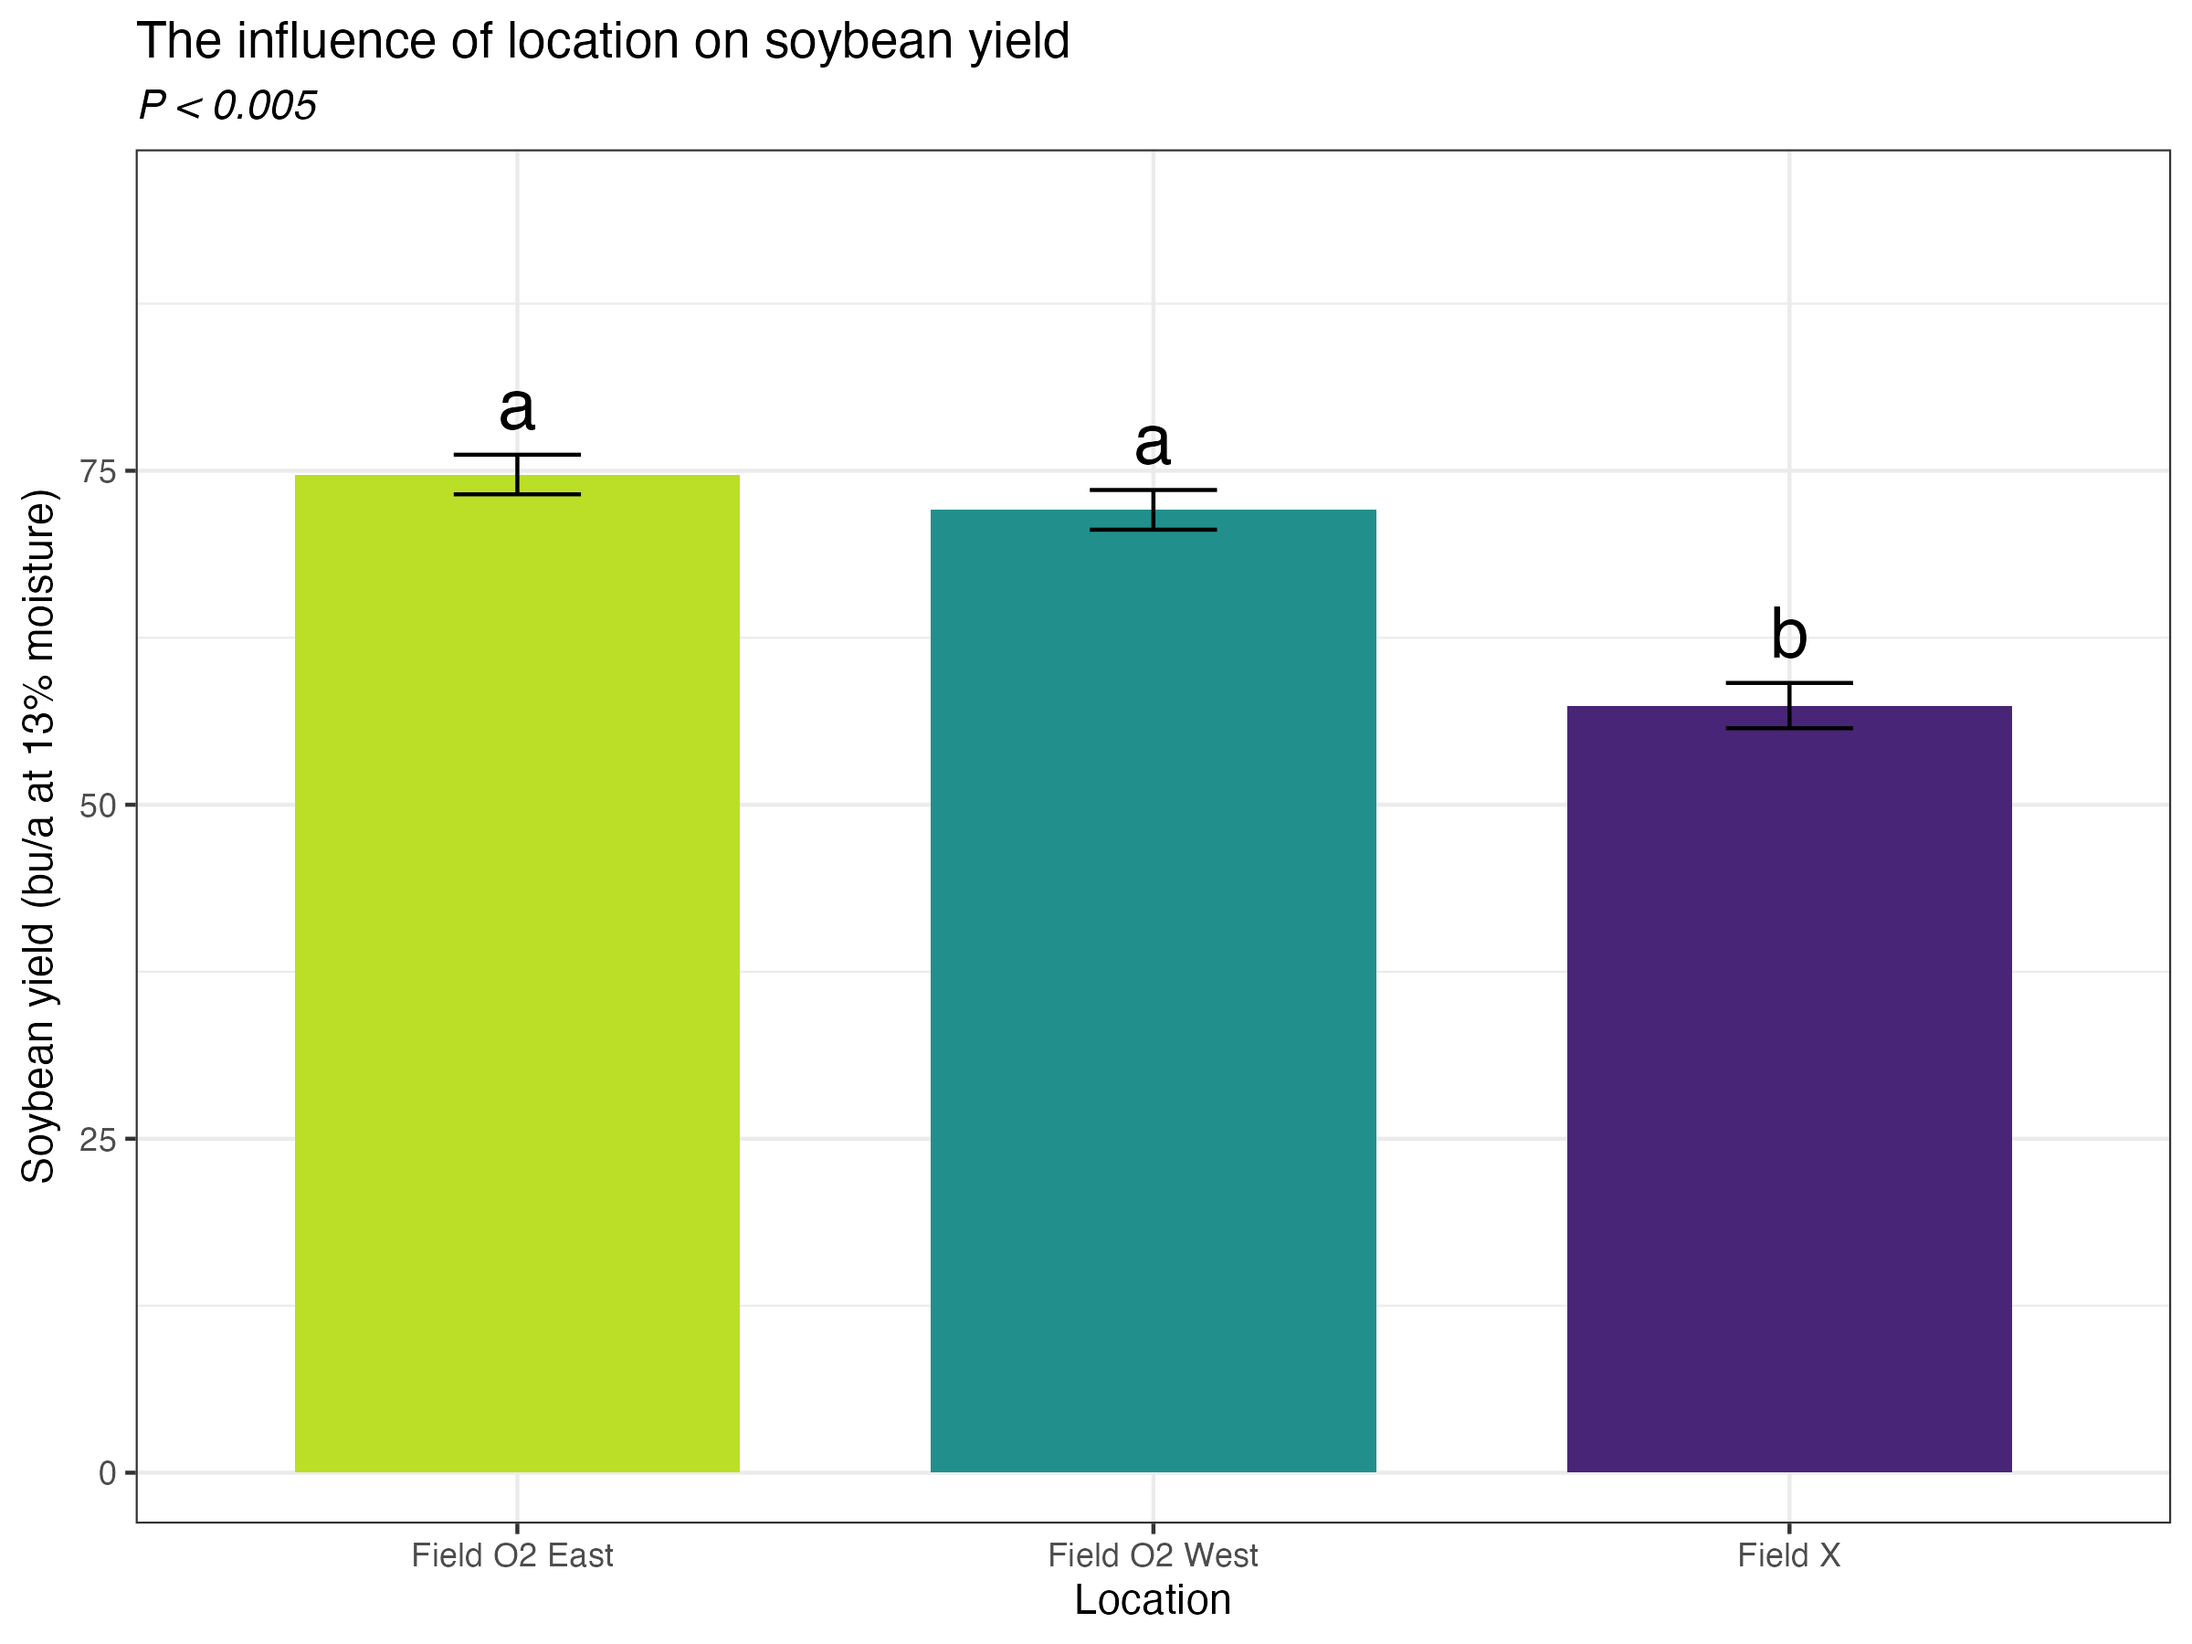
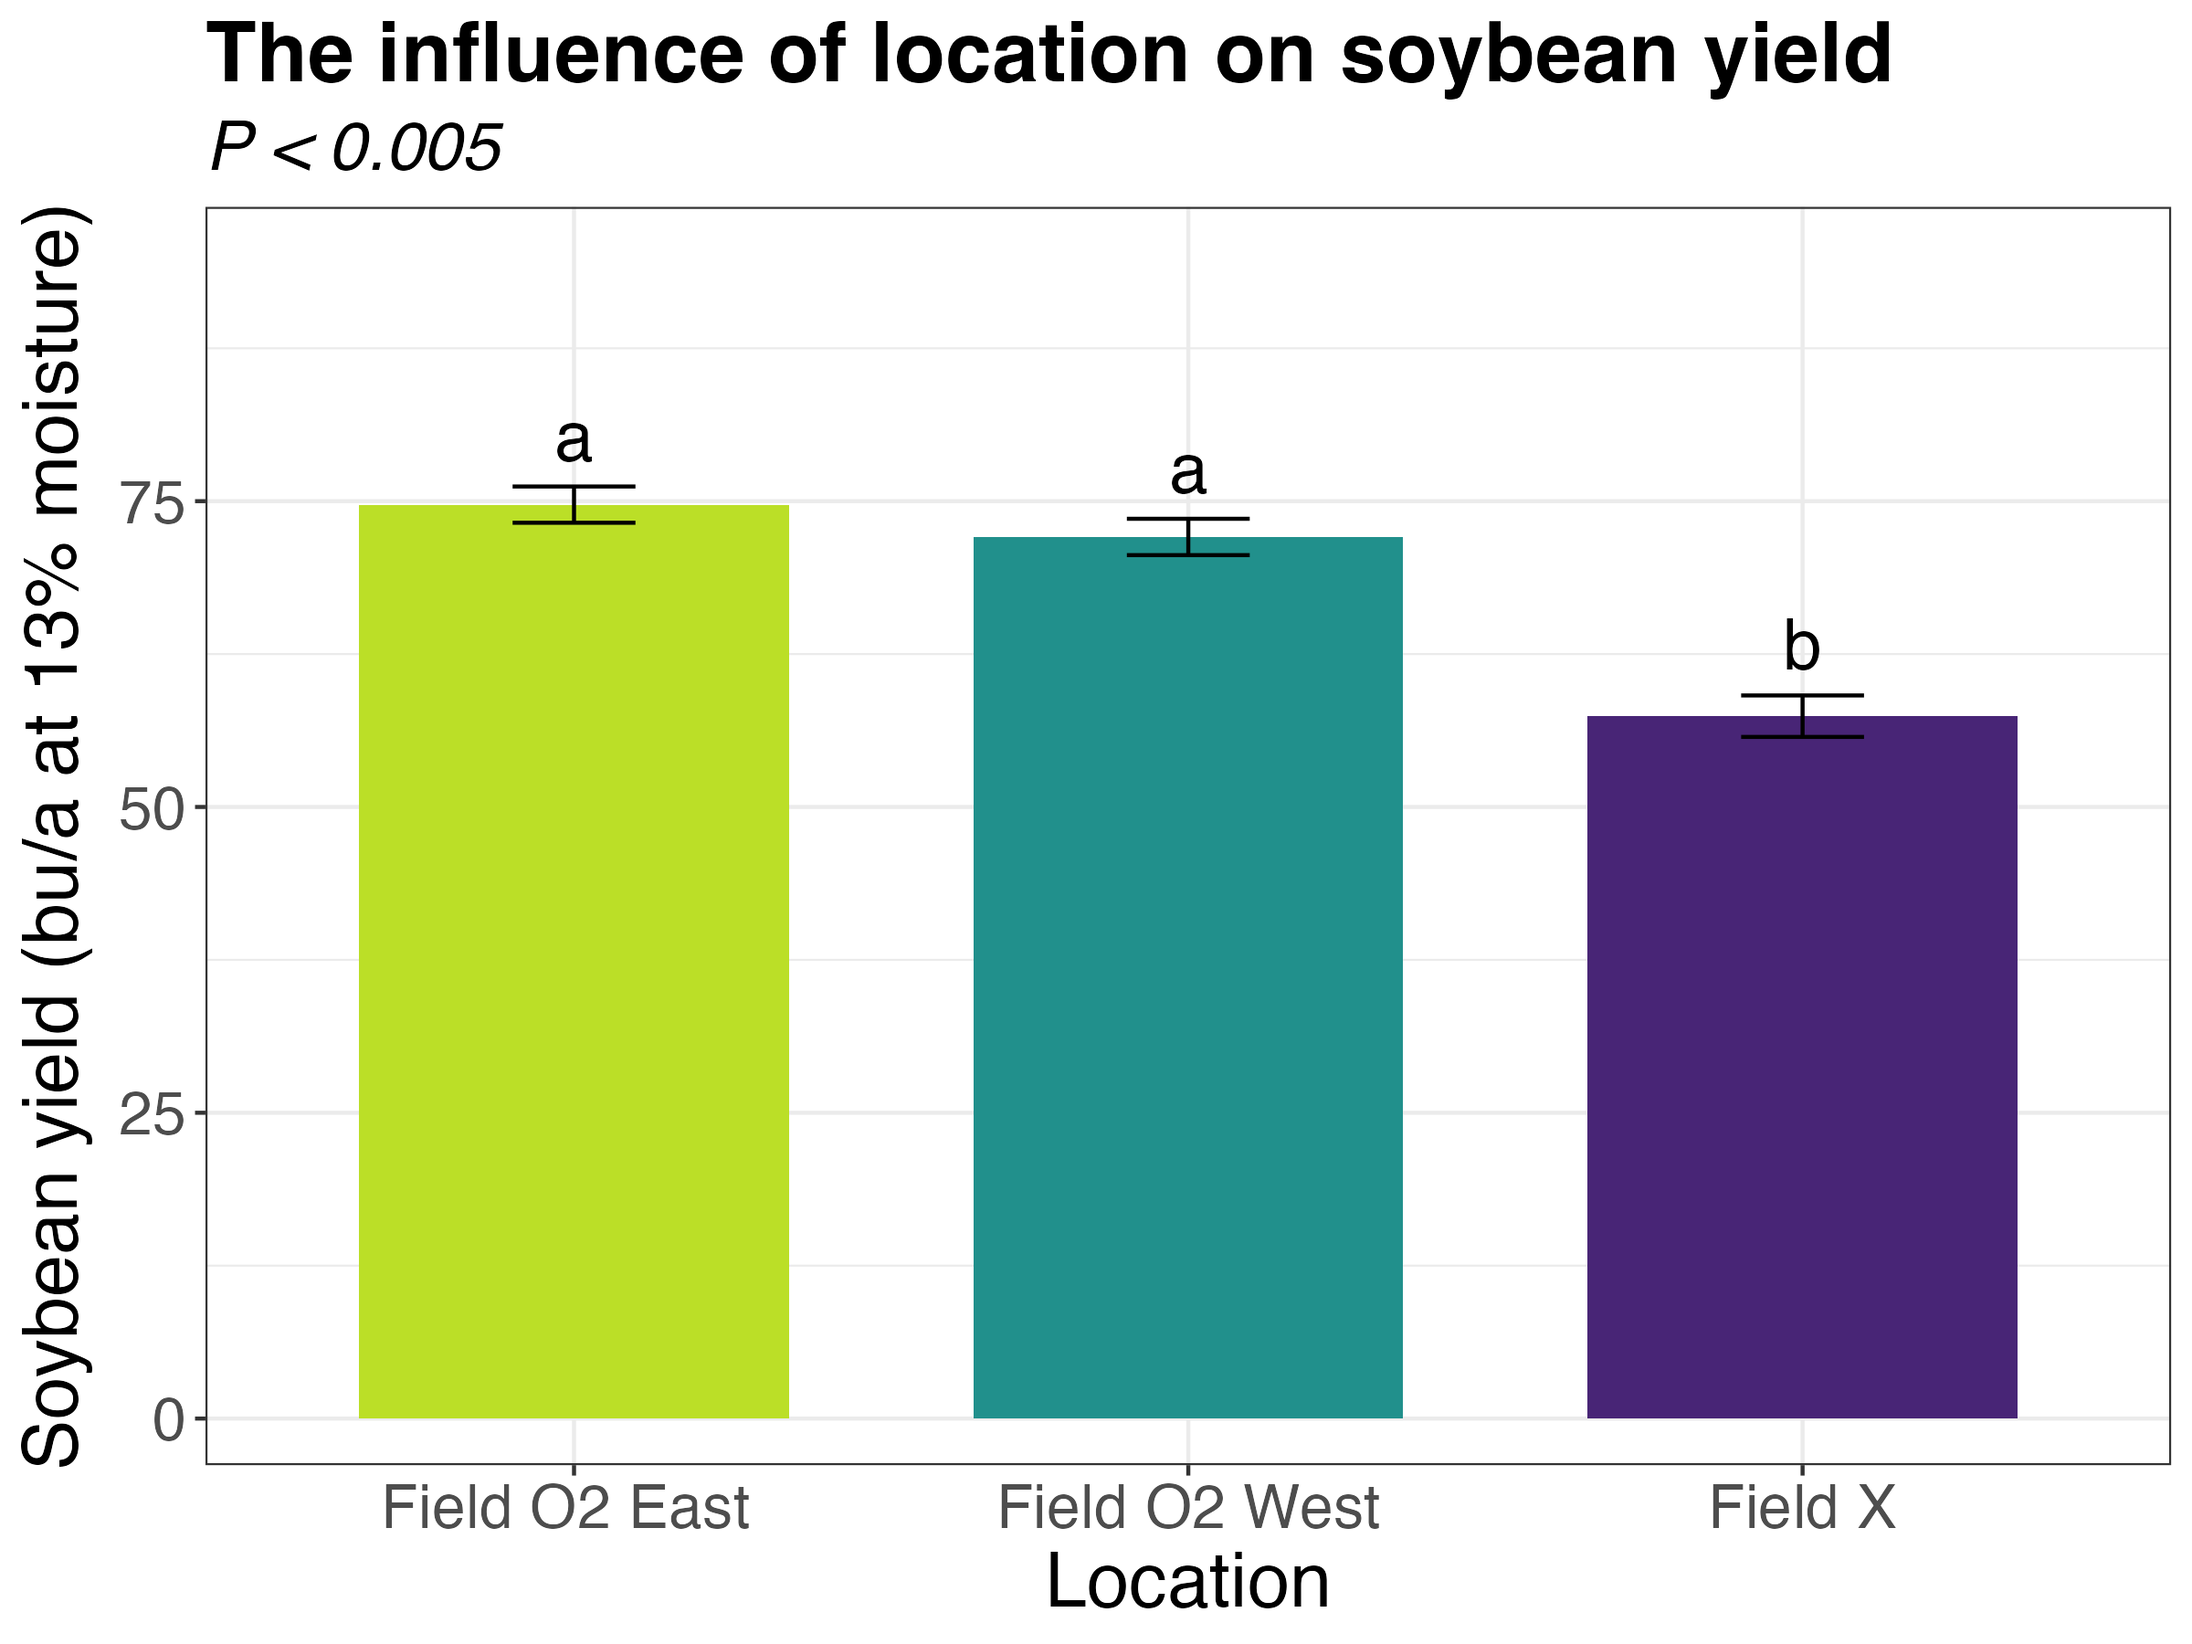
changed figures

diff --git a/rmarkdowns/bean_yield.md b/rmarkdowns/bean_yield.md
@@ -139,7 +139,7 @@ resid_panel(random)
 
 ## Means comparison
 
-### Weed-control (NS)
+### Weed-control (Not significant)
 
 ``` r
 means_weed_control <- emmeans(random, ~  weed_control)
@@ -156,7 +156,7 @@ kable(head(pairwise_comparisons_weed_control))
 | RIM - RNO |  1.6227217 | 2.819198 | 35.73048 |  0.5755969 | 0.9935448 |
 | RIM - TIC | -1.5348311 | 2.819198 | 35.73048 | -0.5444212 | 0.9952174 |
 
-<br> \### Location (S)
+<br> \### Location (Significant)
 
 ``` r
 means_location <- emmeans(random, ~  location)
@@ -174,7 +174,7 @@ kable(head(pairwise_comparisons_location))
 
 ## Tukey compact letter display
 
-### Weed-control (NS)
+### Weed-control (Not significant)
 
 ``` r
 cld_weed_control_tukey <-cld(emmeans(random, ~  weed_control, type = "response"), Letters = letters, sort = TRUE, reversed=TRUE)
@@ -204,7 +204,7 @@ cld_weed_control_tukey
 
 <br>
 
-### Location (S)
+### Location (Significant)
 
 ``` r
 cld_location_tukey <-cld(emmeans(random, ~  location, type = "response"), Letters = letters, sort = TRUE, reversed=TRUE)
@@ -232,53 +232,69 @@ cld_location_tukey
 
 <br>
 
-### Weed-control:Location (NS)
+## Fisher compact letter display
+
+### Weed-control (No significant)
 
 ``` r
-cld_weed_control_location_tukey <-cld(emmeans(random, ~  weed_control|location, type = "response"), Letters = letters, sort = TRUE, reversed=TRUE)
-cld_weed_control_location_tukey
+cld_weed_control_fisher <-cld(emmeans(random, ~  weed_control , type = "response"), Letters = letters, adjust = "none",sort = TRUE, reversed=TRUE)
 ```
 
-    ## location = field O2 east:
+    ## NOTE: Results may be misleading due to involvement in interactions
+
+``` r
+cld_weed_control_fisher
+```
+
     ##  weed_control emmean   SE   df lower.CL upper.CL .group
-    ##  RIC            77.8 3.39 43.9     71.0     84.6  a    
-    ##  RNO            76.6 3.39 43.9     69.8     83.4  a    
-    ##  RIM            75.2 3.39 43.9     68.4     82.1  a    
-    ##  TIM            72.3 3.39 43.9     65.5     79.2  a    
-    ##  TIC            71.7 3.39 43.9     64.8     78.5  a    
+    ##  TIC            70.4 1.96 43.9     66.5     74.3  a    
+    ##  RIM            68.9 2.07 44.0     64.7     73.0  a    
+    ##  RIC            68.7 1.96 43.9     64.8     72.7  a    
+    ##  RNO            67.2 1.96 43.9     63.3     71.2  a    
+    ##  TIM            64.9 1.96 43.9     61.0     68.9  a    
     ## 
-    ## location = field O2 west:
-    ##  weed_control emmean   SE   df lower.CL upper.CL .group
-    ##  TIC            79.5 3.39 43.9     72.7     86.4  a    
-    ##  TIM            71.0 3.39 43.9     64.1     77.8  a    
-    ##  RIC            70.9 3.39 43.9     64.0     77.7  a    
-    ##  RIM            69.5 3.95 44.0     61.5     77.5  a    
-    ##  RNO            68.9 3.39 43.9     62.1     75.8  a    
-    ## 
-    ## location = field x:
-    ##  weed_control emmean   SE   df lower.CL upper.CL .group
-    ##  RIM            61.9 3.39 43.9     55.1     68.7  a    
-    ##  TIC            60.0 3.39 43.9     53.2     66.8  a    
-    ##  RIC            57.5 3.39 43.9     50.7     64.3  a    
-    ##  RNO            56.2 3.39 43.9     49.4     63.0  a    
-    ##  TIM            51.5 3.39 43.9     44.6     58.3  a    
-    ## 
+    ## Results are averaged over the levels of: location 
     ## Degrees-of-freedom method: kenward-roger 
     ## Confidence level used: 0.95 
-    ## P value adjustment: tukey method for comparing a family of 5 estimates 
     ## significance level used: alpha = 0.05 
     ## NOTE: If two or more means share the same grouping symbol,
     ##       then we cannot show them to be different.
     ##       But we also did not show them to be the same.
 
-<br> \# Figures
+### Location (Significant)
+
+``` r
+#location
+cld_location_fisher <-cld(emmeans(random, ~  location , type = "response"), Letters = letters, adjust = "none",sort = TRUE, reversed=TRUE)
+```
+
+    ## NOTE: Results may be misleading due to involvement in interactions
+
+``` r
+cld_location_fisher
+```
+
+    ##  location      emmean   SE   df lower.CL upper.CL .group
+    ##  field O2 east   74.7 1.58 8.67     71.1     78.3  a    
+    ##  field O2 west   72.0 1.63 9.54     68.3     75.6  a    
+    ##  field x         57.4 1.58 8.67     53.8     61.0   b   
+    ## 
+    ## Results are averaged over the levels of: weed_control 
+    ## Degrees-of-freedom method: kenward-roger 
+    ## Confidence level used: 0.95 
+    ## significance level used: alpha = 0.05 
+    ## NOTE: If two or more means share the same grouping symbol,
+    ##       then we cannot show them to be different.
+    ##       But we also did not show them to be the same.
+
+# Figures using fisher
 
 ## Weed-control (NS)
 
 ``` r
 bean_yield_clean |> 
-  left_join(cld_weed_control_tukey) |> 
-  ggplot(aes(x = weed_control, y = bean_yield_adj_bu_acre, fill = weed_control)) +
+  left_join(cld_weed_control_fisher) |> 
+  ggplot(aes(x = factor(weed_control, levels = c("RNO", "RIM", "RIC", "TIM", "TIC")), y = bean_yield_adj_bu_acre, fill = weed_control)) +
   stat_summary(geom = "bar", fun = "mean", width = 0.7) +
   stat_summary(geom = "errorbar", fun.data = "mean_se", width = 0.2) +
   #stat_summary(geom="text", fun = "MeanPlusSe", aes(label= trimws(.group)),size=6.5,vjust=-0.5) +
@@ -288,25 +304,29 @@ bean_yield_clean |>
     title = str_c("The influence of interrow weed control on soybean yield"),
     subtitle = expression(italic("Not signficant"))) +
   
-  scale_x_discrete(labels = c("Rolled,\nhigh-residue\ncultivation",
+  scale_x_discrete(labels = c("Rolled,\nno additional\nweed control",
                               "Rolled,\ninterrow\nmowing",
-                              "Rolled,\nno additional\nweed control",
-                          "Tilled,\nstandard\ncultivation",
-                              "Tilled,\ninterrow\nmowing")) +
+                              "Rolled,\nhigh-residue\ncultivation",
+                              "Tilled,\ninterrow\nmowing",
+                          "Tilled,\nstandard\ncultivation")) +
   scale_y_continuous(expand = expansion(mult = c(0.05, 0.3))) +
   scale_fill_viridis(discrete = TRUE, option = "D", direction = -1, end = 0.9, begin = 0.1) +
    theme_bw() +
   theme(
     legend.position = "none",
     strip.background = element_blank(),
-    strip.text = element_text(face = "bold", size = 12)
+    strip.text = element_text(face = "bold", size = 12),
+    axis.title = element_text(size = 20),  # Increase font size of axis titles
+    axis.text = element_text(size = 16),   # Increase font size of axis labels
+    plot.title = element_text(size = 22, face = "bold"),  # Increase font size of title
+    plot.subtitle = element_text(size = 18, face = "italic")  # Increase font size of subtitle
   )
 ```
 
-![](bean_yield_files/figure-gfm/unnamed-chunk-11-1.png)<!-- -->
+![](bean_yield_files/figure-gfm/unnamed-chunk-12-1.png)<!-- -->
 
 ``` r
-ggsave("bean_yield_weed_control_bua.png", width = 8, height = 6, dpi = 300)
+ggsave("bean_yield_weed_control_bua.png", width = 12, height = 8, dpi = 300)
 ```
 
 ## Location (S)
@@ -332,11 +352,16 @@ bean_yield_clean |>
   theme(
     legend.position = "none",
     strip.background = element_blank(),
-    strip.text = element_text(face = "bold", size = 12)
+    strip.text = element_text(face = "bold", size = 12),
+    axis.title = element_text(size = 20),  # Increase font size of axis titles
+    axis.text = element_text(size = 16),   # Increase font size of axis labels
+    plot.title = element_text(size = 22, face = "bold"),  # Increase font size of title
+    plot.subtitle = element_text(size = 18, face = "italic")  # Increase font size of subtitle
+  
   )
 ```
 
-![](bean_yield_files/figure-gfm/unnamed-chunk-12-1.png)<!-- -->
+![](bean_yield_files/figure-gfm/unnamed-chunk-13-1.png)<!-- -->
 
 ``` r
 ggsave("bean_yield_location_bua.png", width = 8, height = 6, dpi = 300)
